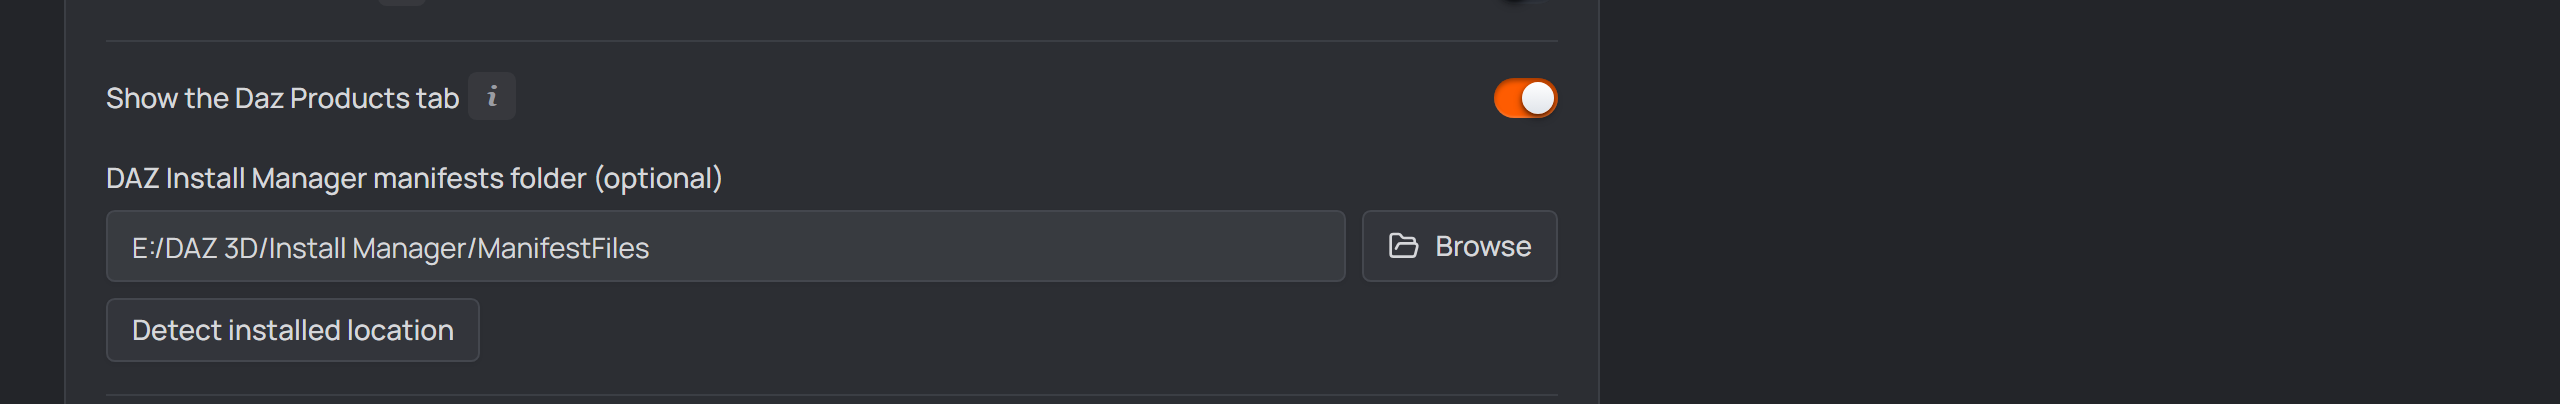
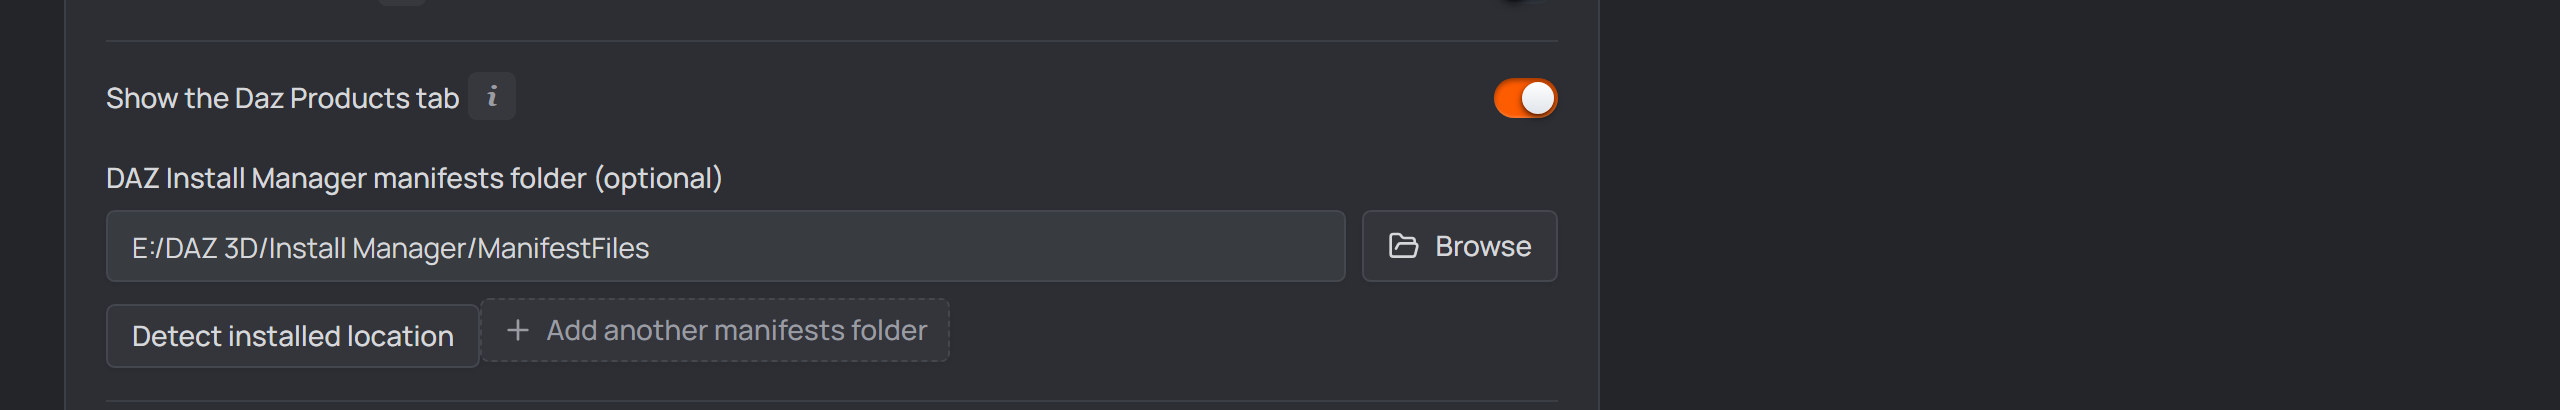
docs(guide): refresh pass — extra DIM folders line + fresh-session corrections
/refresh-docs pass. Documented (user-sized: one line): the product scan reads
additional DIM manifests folders (product-scanning.md). Corrected for the
fresh-session-per-row batch (v0.90.0): a running Daz is no longer "left as you
had it" — each scene runs in its own Daz session, a worn open Daz is closed
first, and an interrupted run no longer opens queued scenes in Daz
(dth-export.md). Screenshots regenerated: the two Settings DIM shots pick up
the Add-another-manifests-folder button, tools-refresh picks up runtime v104.

Claude-Session: https://claude.ai/code/session_01SUB5EJRiVbS1VwnRadydrU

diff --git a/docs/guide/dth-export.md b/docs/guide/dth-export.md
@@ -95,8 +95,9 @@ it (Utils drawer) and the run sends only what it makes.
 
 Press **Start**: the panel closes and the batch is handed to Daz Studio, where the
 bundled [**Runner plugin**](./02-setup.md#daz-studio-plugins) works through it
-unattended. A closed Daz is **opened where you can see it** — this is a run you are
-watching. A running Daz picks the batch up by itself and is left as you had it.
+unattended — **each scene in its own fresh Daz session**, opened where you can see
+it. Daz quitting and reopening between scenes is the run working, not crashing.
+A Daz already open with a scene loaded is closed before the first scene runs.
 
 The panel refuses to start while the Runner plugin is missing or older than the one
 bundled with the app; the notice links straight to Settings. A skip-Daz run doesn't
@@ -140,8 +141,7 @@ Hover the **Working** button while a run is live and its spinner becomes a stop
 mark — *Click to interrupt* — through both legs:
 
 - The **ROM build stops** where it happens to be, and the **export that would have
-  followed is skipped**, along with every scene still queued. A queued scene still
-  opens in Daz (the Runner owns the batch), it just does no work.
+  followed is skipped**, along with every scene still queued.
 - The **Houdini leg stops between export nodes** and closes its background
   Houdini; projects still queued never start.
 - The report says **DTH Export interrupted**, never *"n scenes exported"* — after

diff --git a/docs/guide/product-scanning.md b/docs/guide/product-scanning.md
@@ -11,7 +11,9 @@ against the character. It runs on its own and never affects ROM generation.
 [Settings → General](./02-setup.md#daz-installation--pick-it-once) fills this from
 DIM's own settings. Otherwise set the **DAZ Install Manager manifests folder** in
 **Settings** — the `ManifestFiles` folder DIM writes (see DIM → Advanced Settings →
-"Download/Install"); **Detect installed location** auto-finds it.
+"Download/Install"); **Detect installed location** auto-finds it. More than one
+DIM library? Add the others with **Add another manifests folder**, right under the
+primary field — the scan reads them all.
 
 That folder **is** the product database, so it also arms the scanning: with it set,
 every export run scans the scene it just built. With it empty, nothing is scanned.
